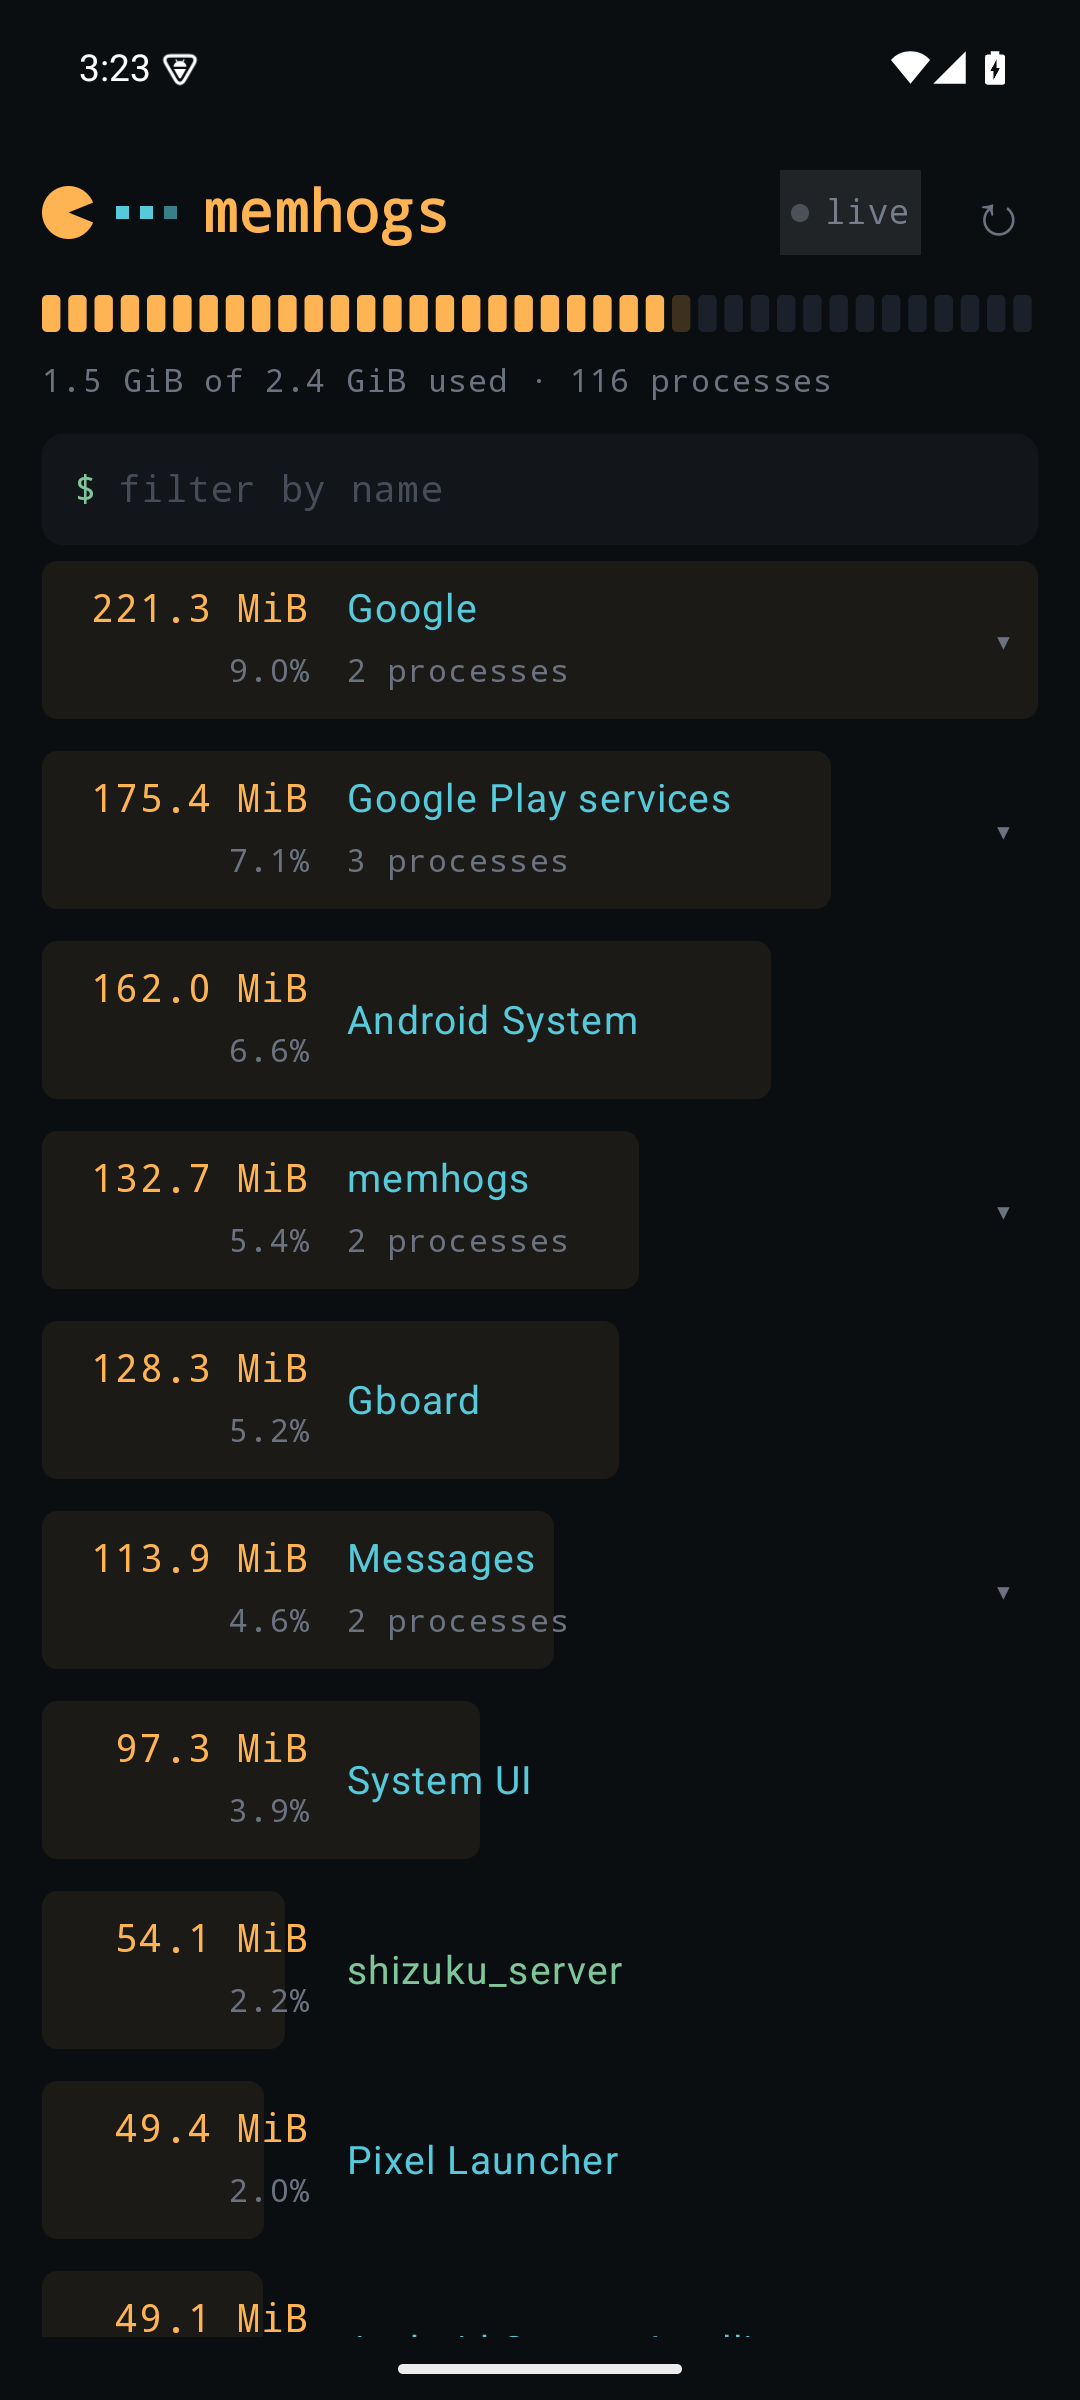
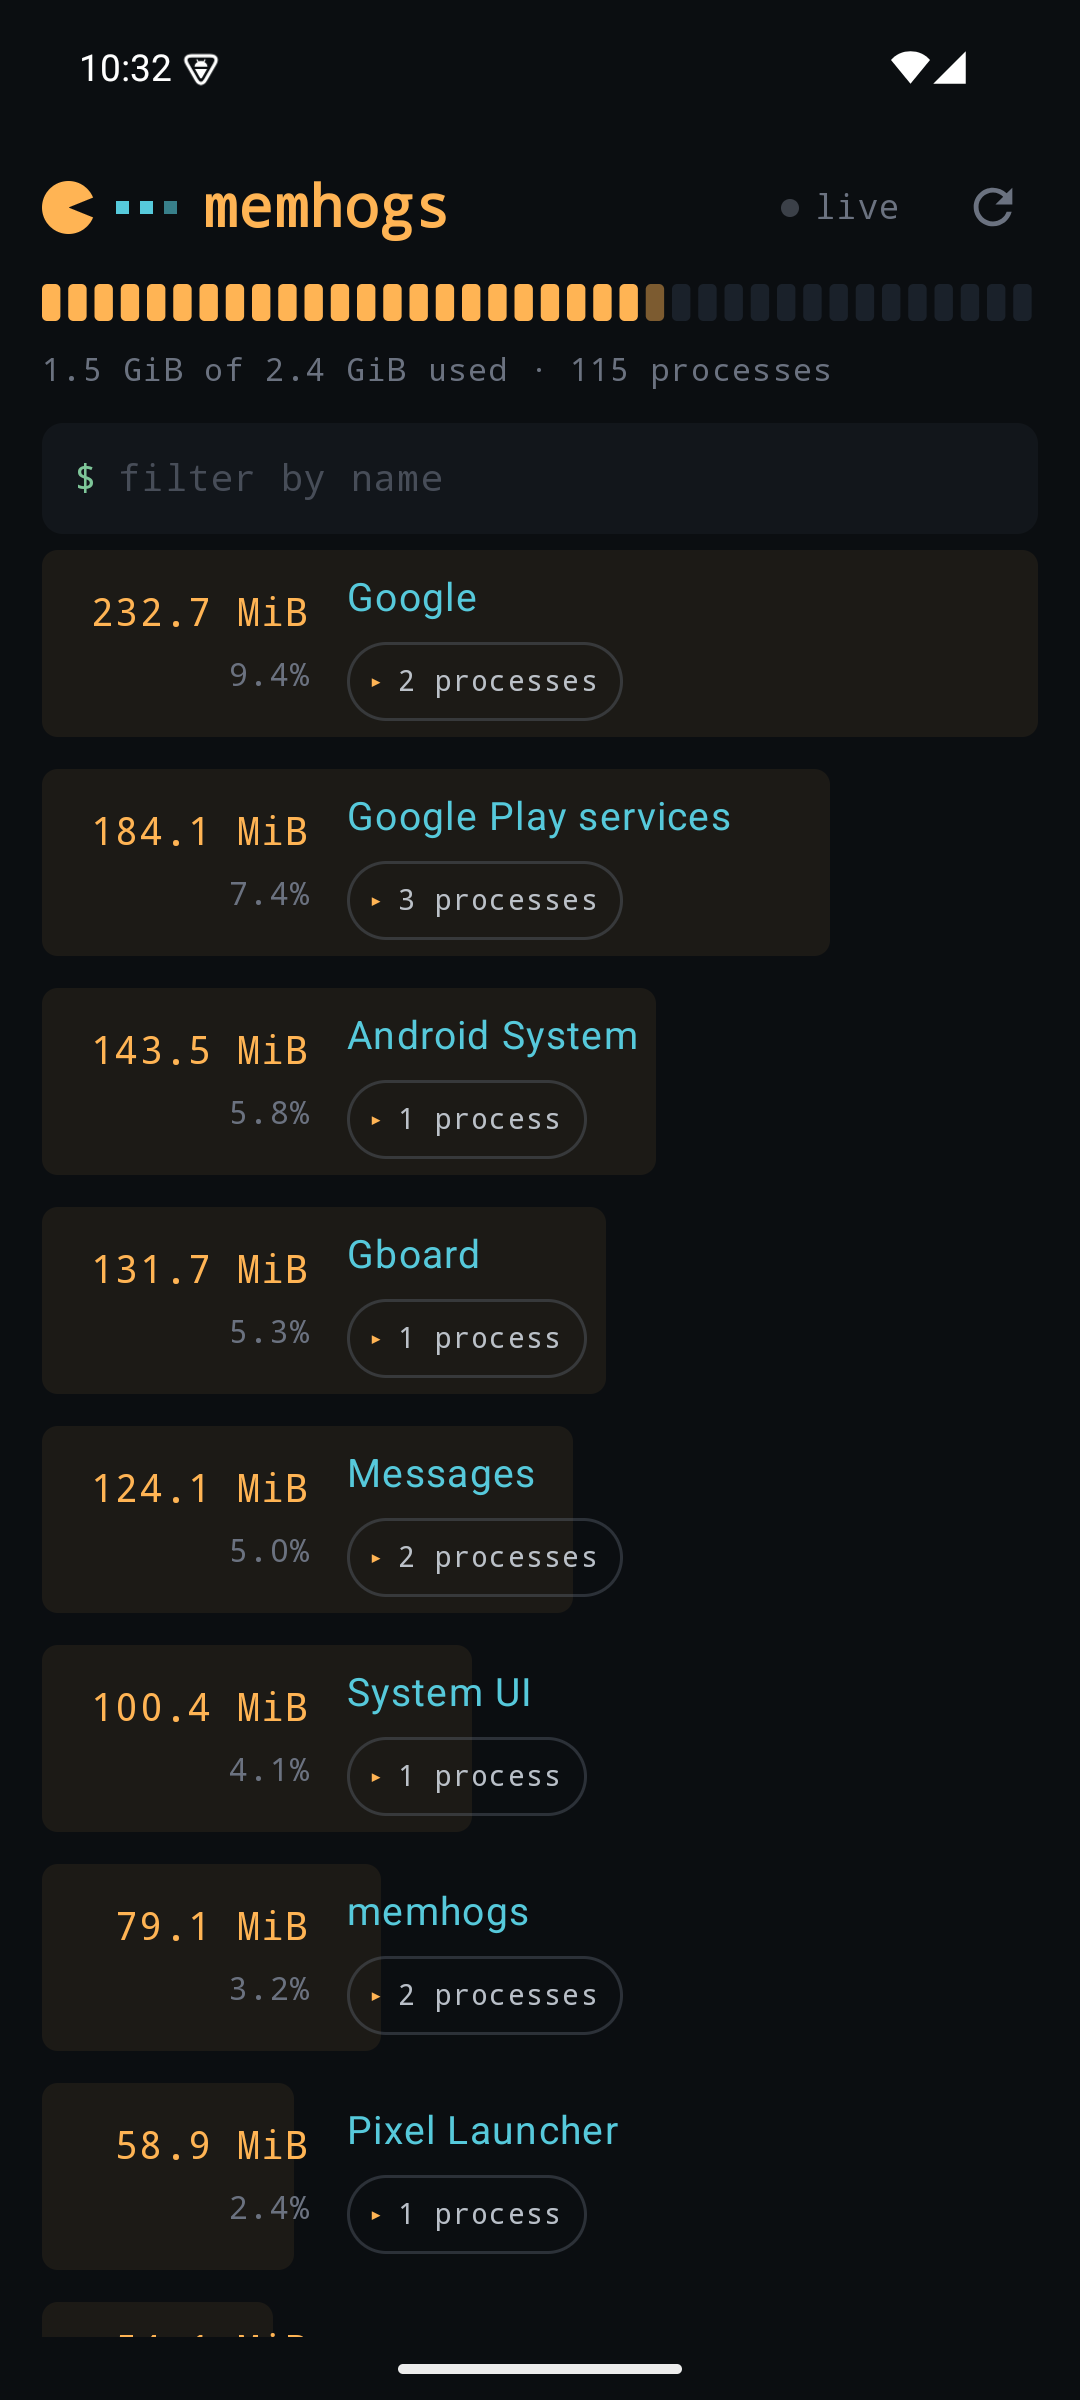
Add release signing, R8 shrinking, and safe-reclaim docs for v0.1.0
Release builds sign from keystore.properties (gitignored; keystore
lives outside the repo) and run R8 with keep rules for the Shizuku user
service and AIDL stub, which reflection makes invisible to shrinking.
The APK drops from 8.4 MB to 1.0 MB and the app's own footprint from
222 MiB to under 90 MiB. Document the reclaim feature and refresh the
README screenshots from the signed build.

diff --git a/README.md b/README.md
@@ -8,7 +8,7 @@ sandboxed renderers count toward Chrome, not toward twelve rows of
 
 <p>
   <img src="docs/screenshot-list.png" width="270" alt="memhogs showing apps ranked by memory with proportional bars" />
-  <img src="docs/screenshot-expanded.png" width="270" alt="a group expanded into its member processes" />
+  <img src="docs/screenshot-expanded.png" width="270" alt="an expanded app after reclaiming 120.7 MiB from Google" />
   <img src="docs/screenshot-setup.png" width="270" alt="the terminal-style setup screen shown before Shizuku is running" />
 </p>
 
@@ -44,6 +44,18 @@ uses to decide which app to kill under pressure.
   are system daemons that do not resolve to an installed package.
 - An app using 15% or more of RAM gets its share flagged in red.
 - Tap a row to expand its member processes with their PIDs.
+- The filter field narrows the list by name, and the live toggle
+  refreshes every five seconds, like the CLI's `--watch`.
+
+## Reclaiming memory
+
+Expanding an app offers a reclaim button. It runs `am kill` through the
+Shizuku shell, which kills the app's background processes only: the
+same reclaim Android itself performs under memory pressure, so nothing
+in the foreground and no active service is touched. memhogs re-measures
+afterward and reports exactly how much came back. Apps the system
+considers busy may return "nothing to reclaim right now", which is the
+safety working as intended. System daemons never offer the button.
 
 ## Install
 